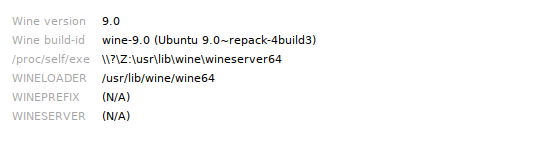
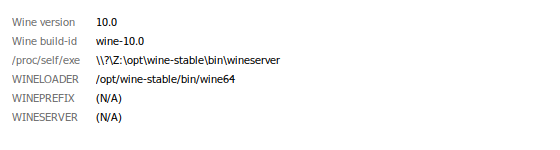
Update the README for the Vulkan editor

diff --git a/README.md b/README.md
@@ -4,6 +4,8 @@ A diagnostic VST3 plugin that displays Wine environment information.
 
 ![](image.png)
 
+The editor is presented with Vulkan. Under Wine it requires Wine 10.0 or later, which supports Vulkan surfaces on child windows such as plugin editors.
+
 ## Building
 
 ### Prerequisites
